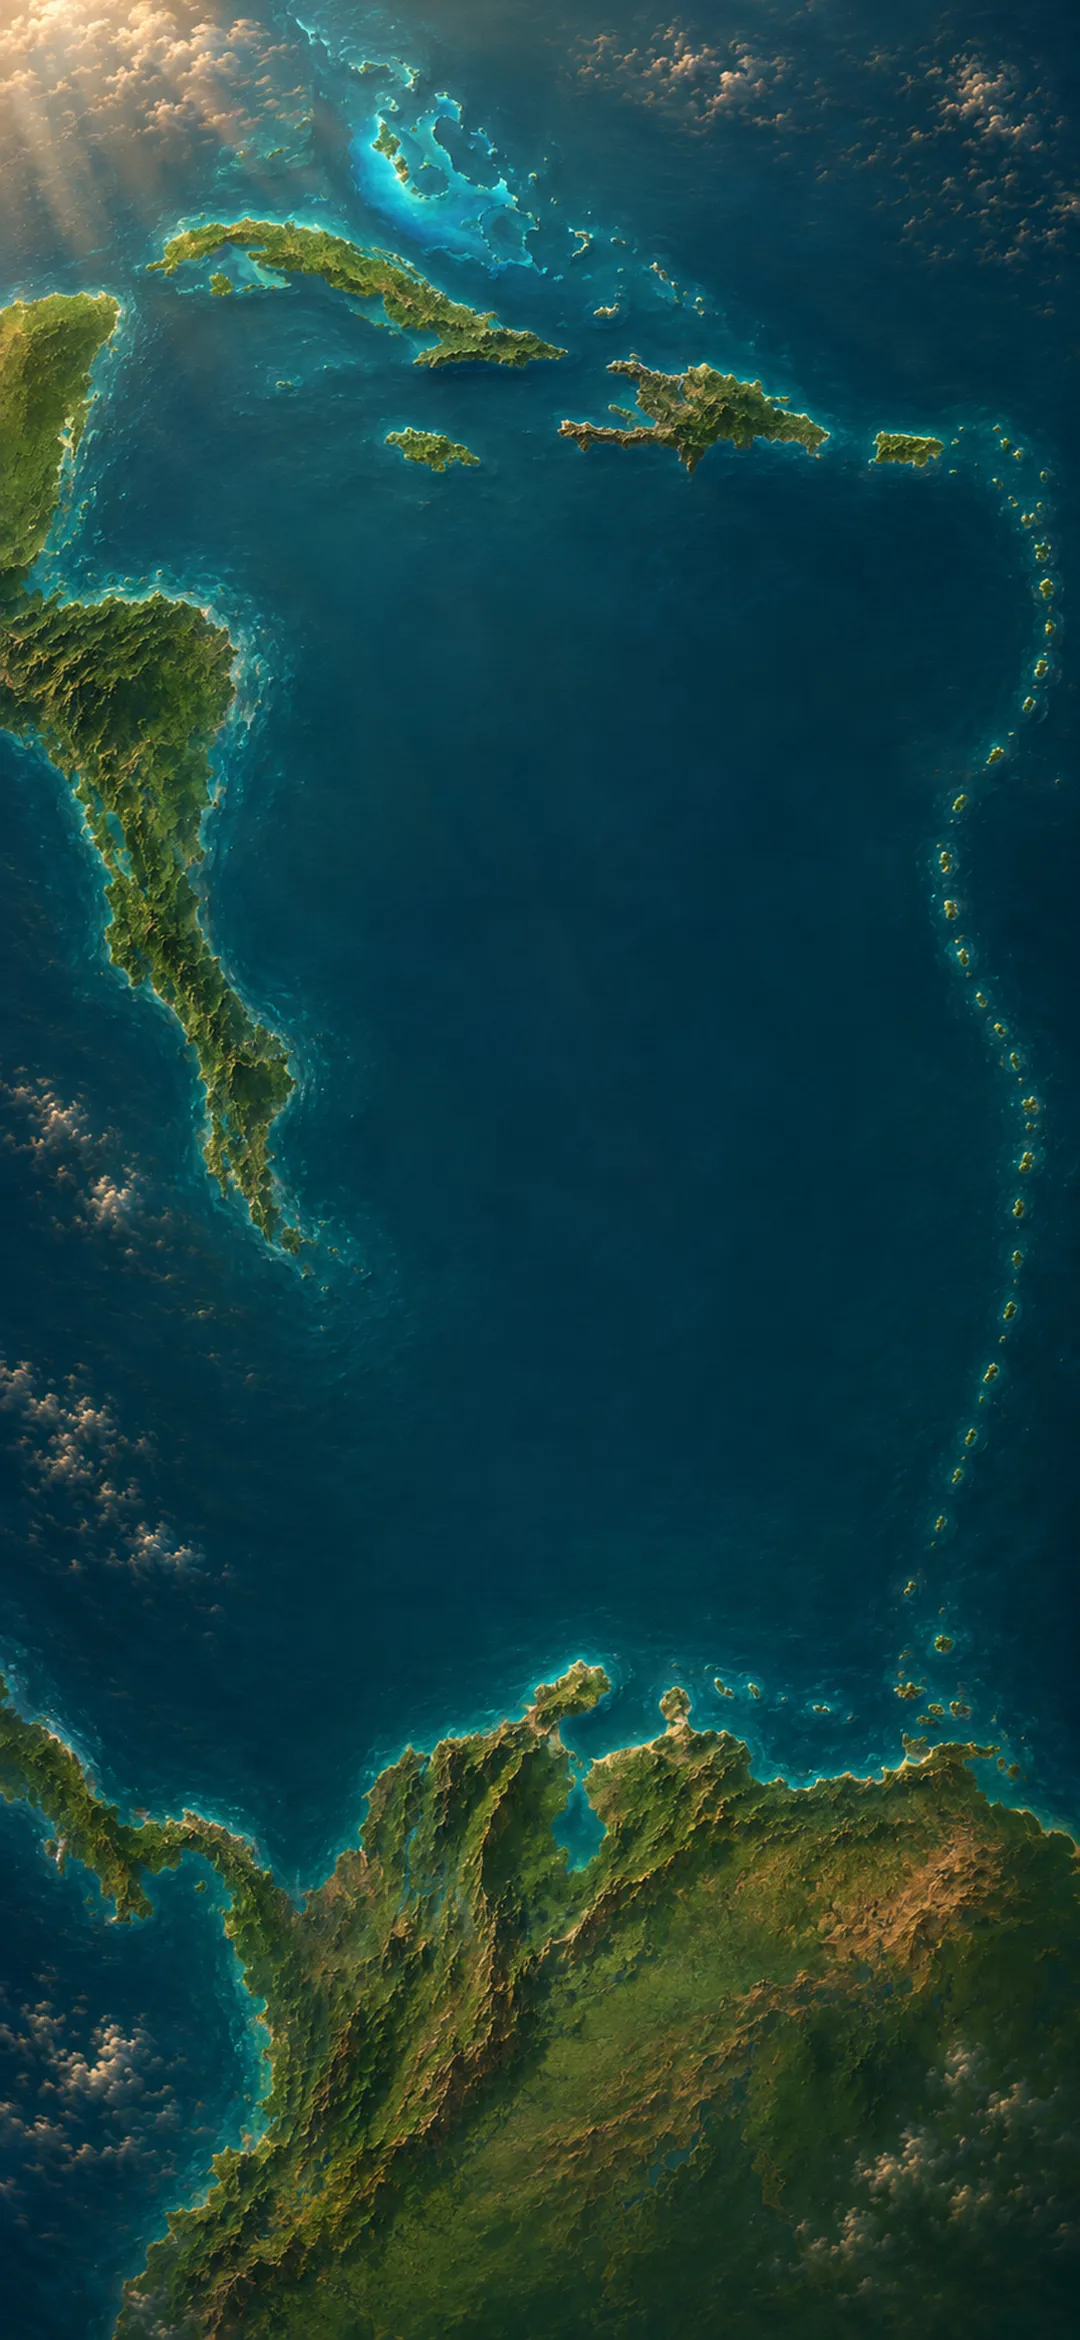
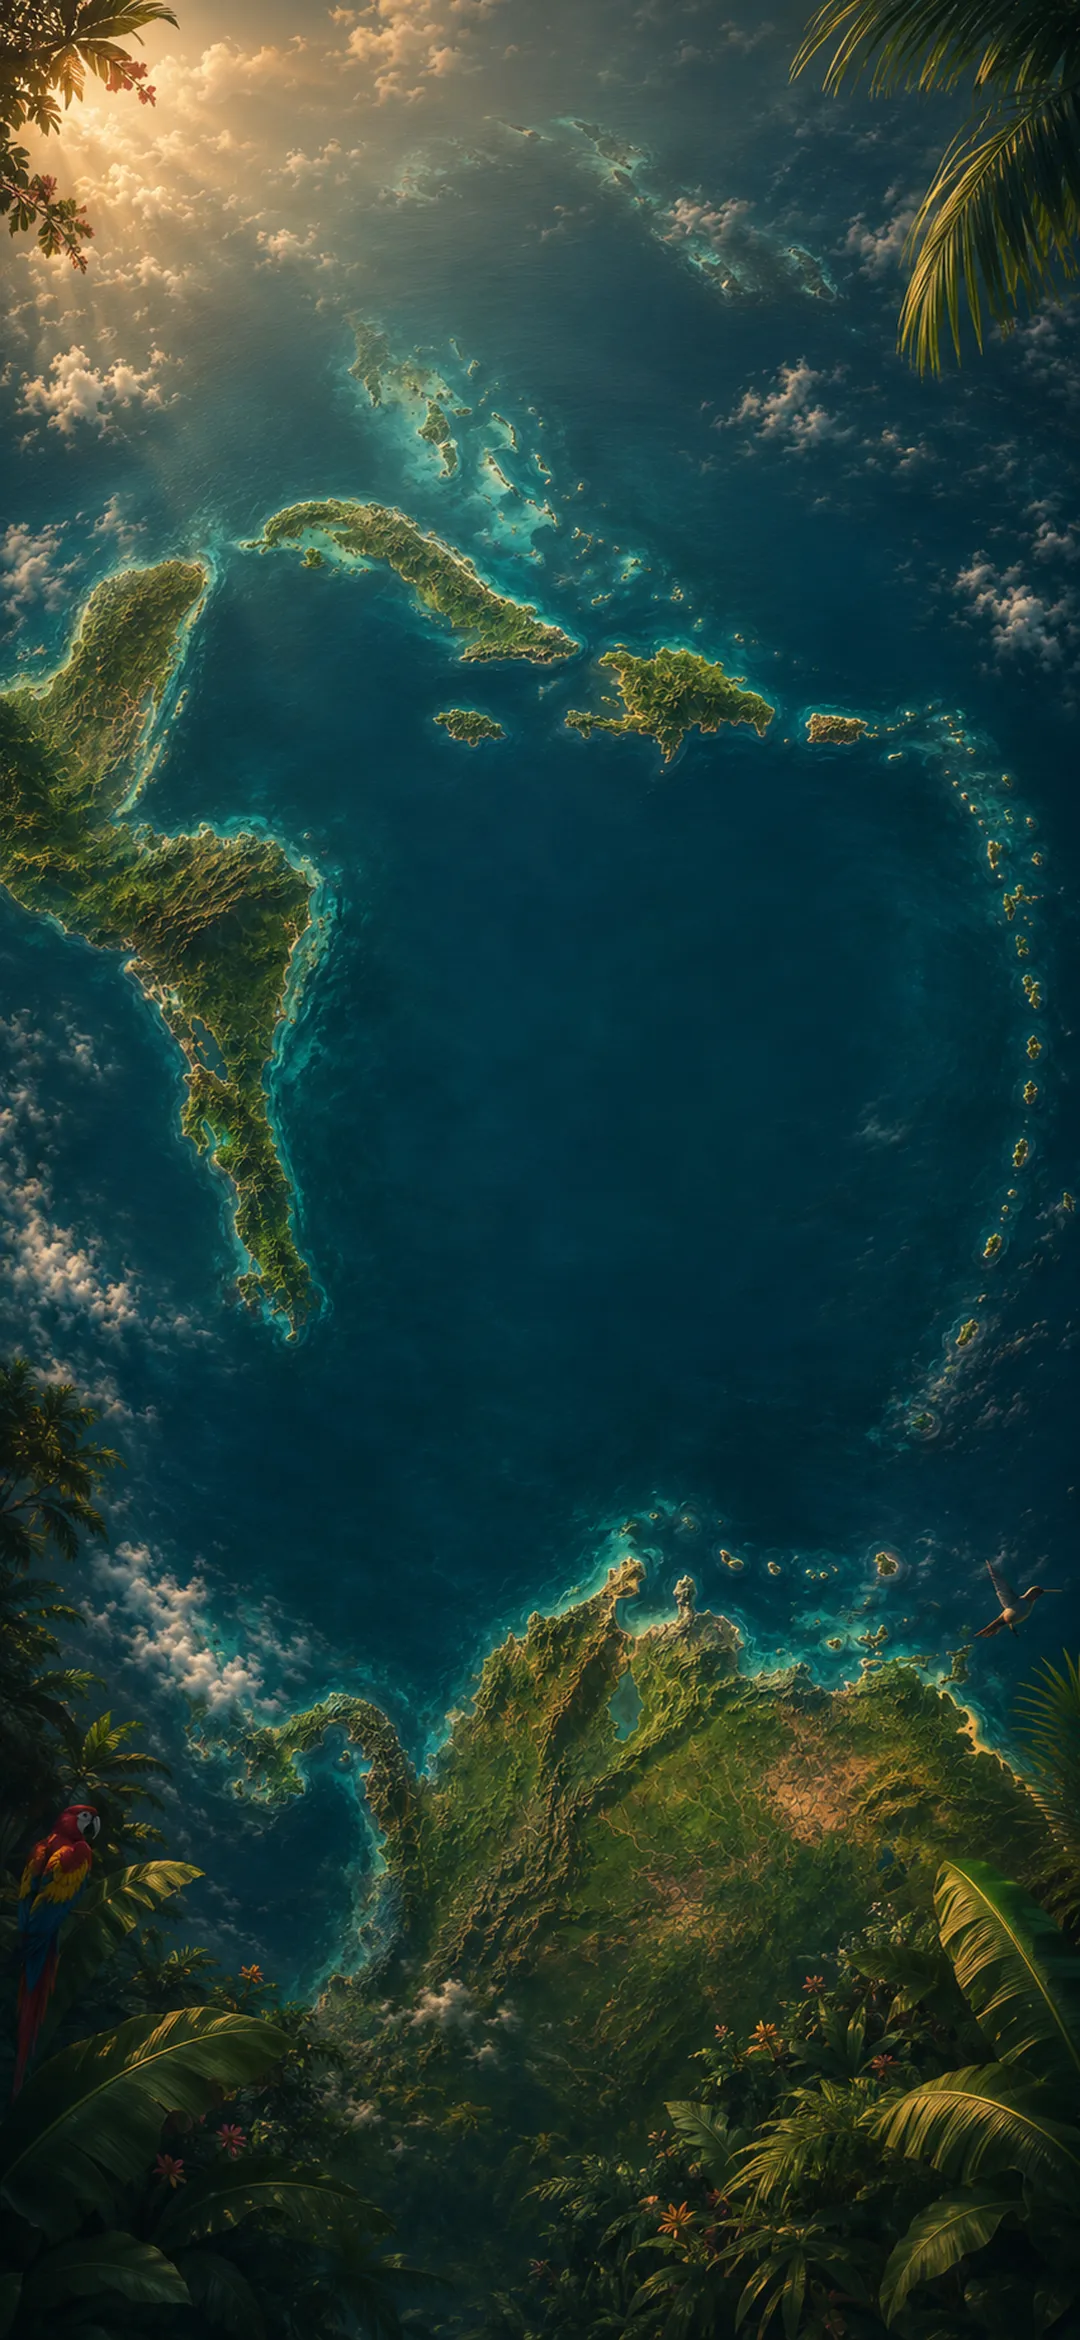
feat(app): the join screen's Caribbean gains its foliage frame and macaw
The second pair of renders keeps the true basin and adds palm fronds,
flowers, a hummingbird and a macaw around the edges. The bottom
overlays were dark enough to erase all of it, so they are lighter now:
the frame shows, the footer links still sit on a darker band.

diff --git a/apps/app/src/components/RoleChooser.tsx b/apps/app/src/components/RoleChooser.tsx
@@ -47,8 +47,10 @@ export function RoleChooser({ onChoose, onLogin }: RoleChooserProps) {
           cards sit on calm water. */}
       <div className="absolute inset-0 bg-[url('/assets/join-caribbean-phone.webp')] bg-cover bg-center md:hidden" />
       <div className="absolute inset-0 hidden bg-[url('/assets/join-caribbean-wide.webp')] bg-cover bg-center md:block" />
-      <div className="absolute inset-0 bg-gradient-to-b from-guaca-sea/30 via-guaca-ocean/50 to-guaca-ocean-deep/95" />
-      <div className="absolute inset-x-0 bottom-0 h-64 bg-gradient-to-b from-transparent to-guaca-ocean-deep" />
+      {/* Light enough that the painted foliage and the macaw at the bottom
+          stay visible; the footer links sit on the darker band. */}
+      <div className="absolute inset-0 bg-gradient-to-b from-guaca-sea/20 via-guaca-ocean/35 to-guaca-ocean-deep/60" />
+      <div className="absolute inset-x-0 bottom-0 h-40 bg-gradient-to-b from-transparent to-guaca-ocean-deep/70" />
 
       {/* Palm frond corners */}
       <PalmFrondLeft className="pointer-events-none absolute left-[-10px] top-[-10px] h-44 w-32 opacity-80" />
